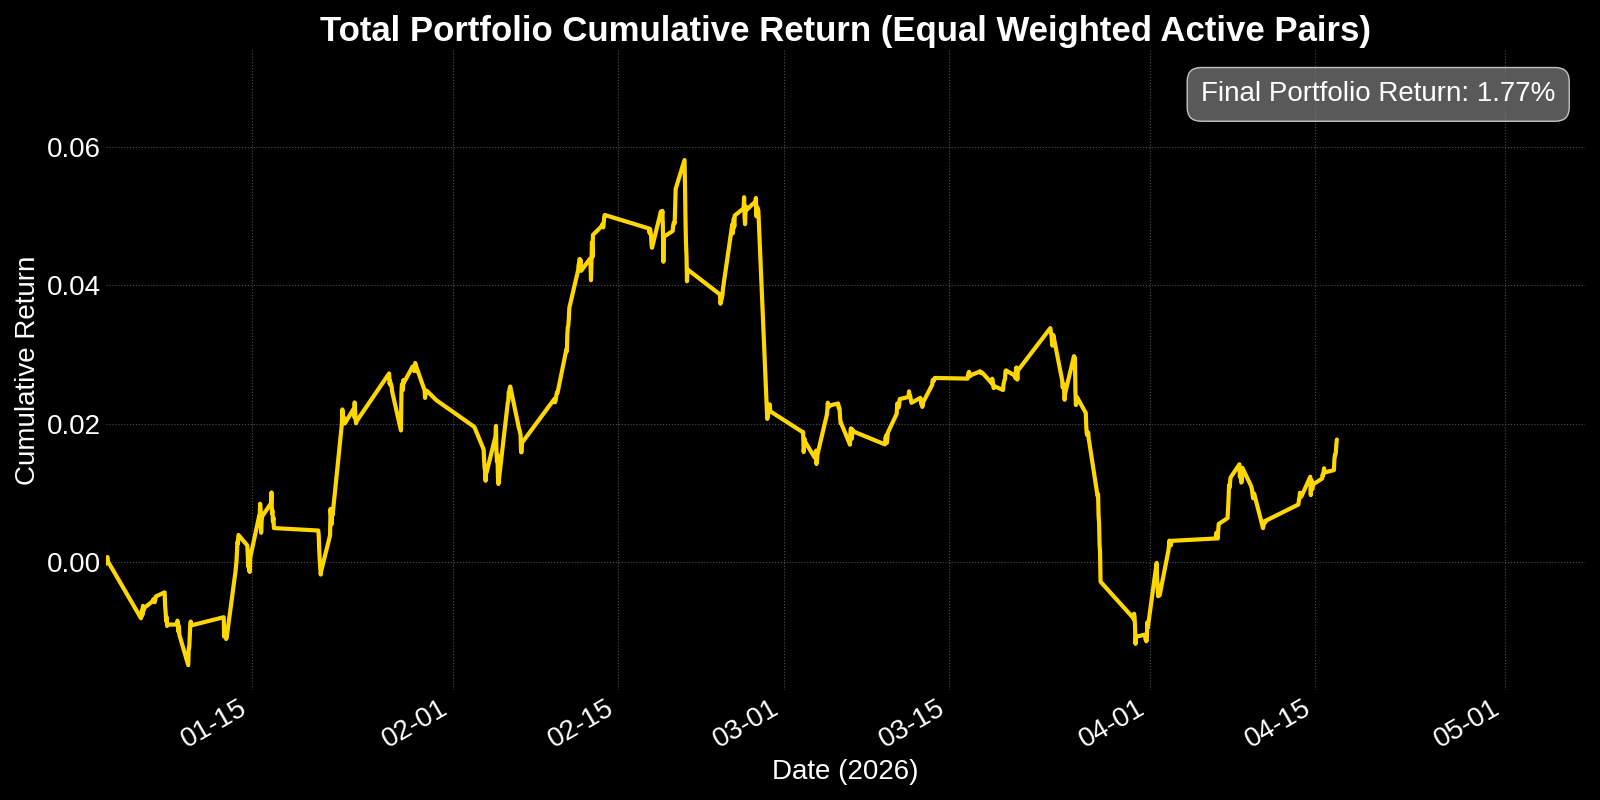
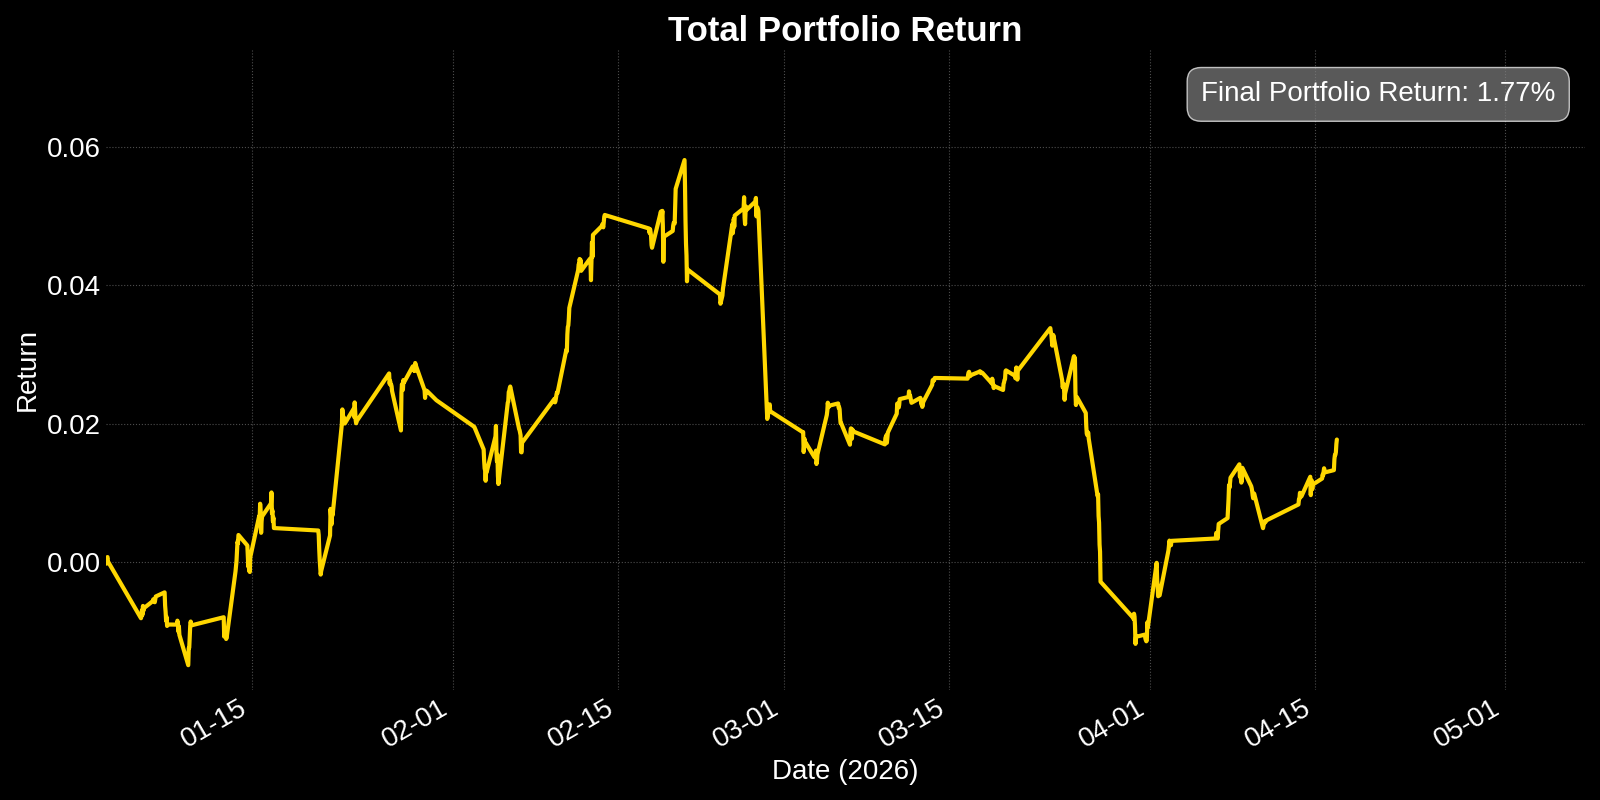
update

Changed region(s): [[0.1875, 0.0, 0.875, 0.0625], [0.0, 0.3438, 0.0312, 0.5938]]

diff --git a/index.html b/index.html
@@ -188,7 +188,7 @@
                     <li><b>Training & Testing:</b> The 150-day window is split into a 90-day training period and a 60-day testing period to capture recent market regimes.</li>
                     <li><b>Dynamic Hedging:</b> An 90-day lookback is utilized to calculate the current hedge ratio and spread and a 140-hour rolling window is used to calculate the z score for active trading.</li>
                     <li><b>60-Day Re-optimization:</b> Every 60 days, the entire selection pipeline is re-run. The system prunes inactive pairs and rotates into new opportunities that meet both the long-term structural and short-term performance criteria.
-                    <li><b>Capital Allocation:</b> Total profit calculations are based on an additive model where an equal, fixed sum of capital is allocated to each active pair.</li>
+                    <li><b>Capital Allocation:</b> Total profit calculations are based on an additive model where an equal, fixed sum of capital is allocated to each trade.</li>
                 </ul>
             </div>
         </div>
